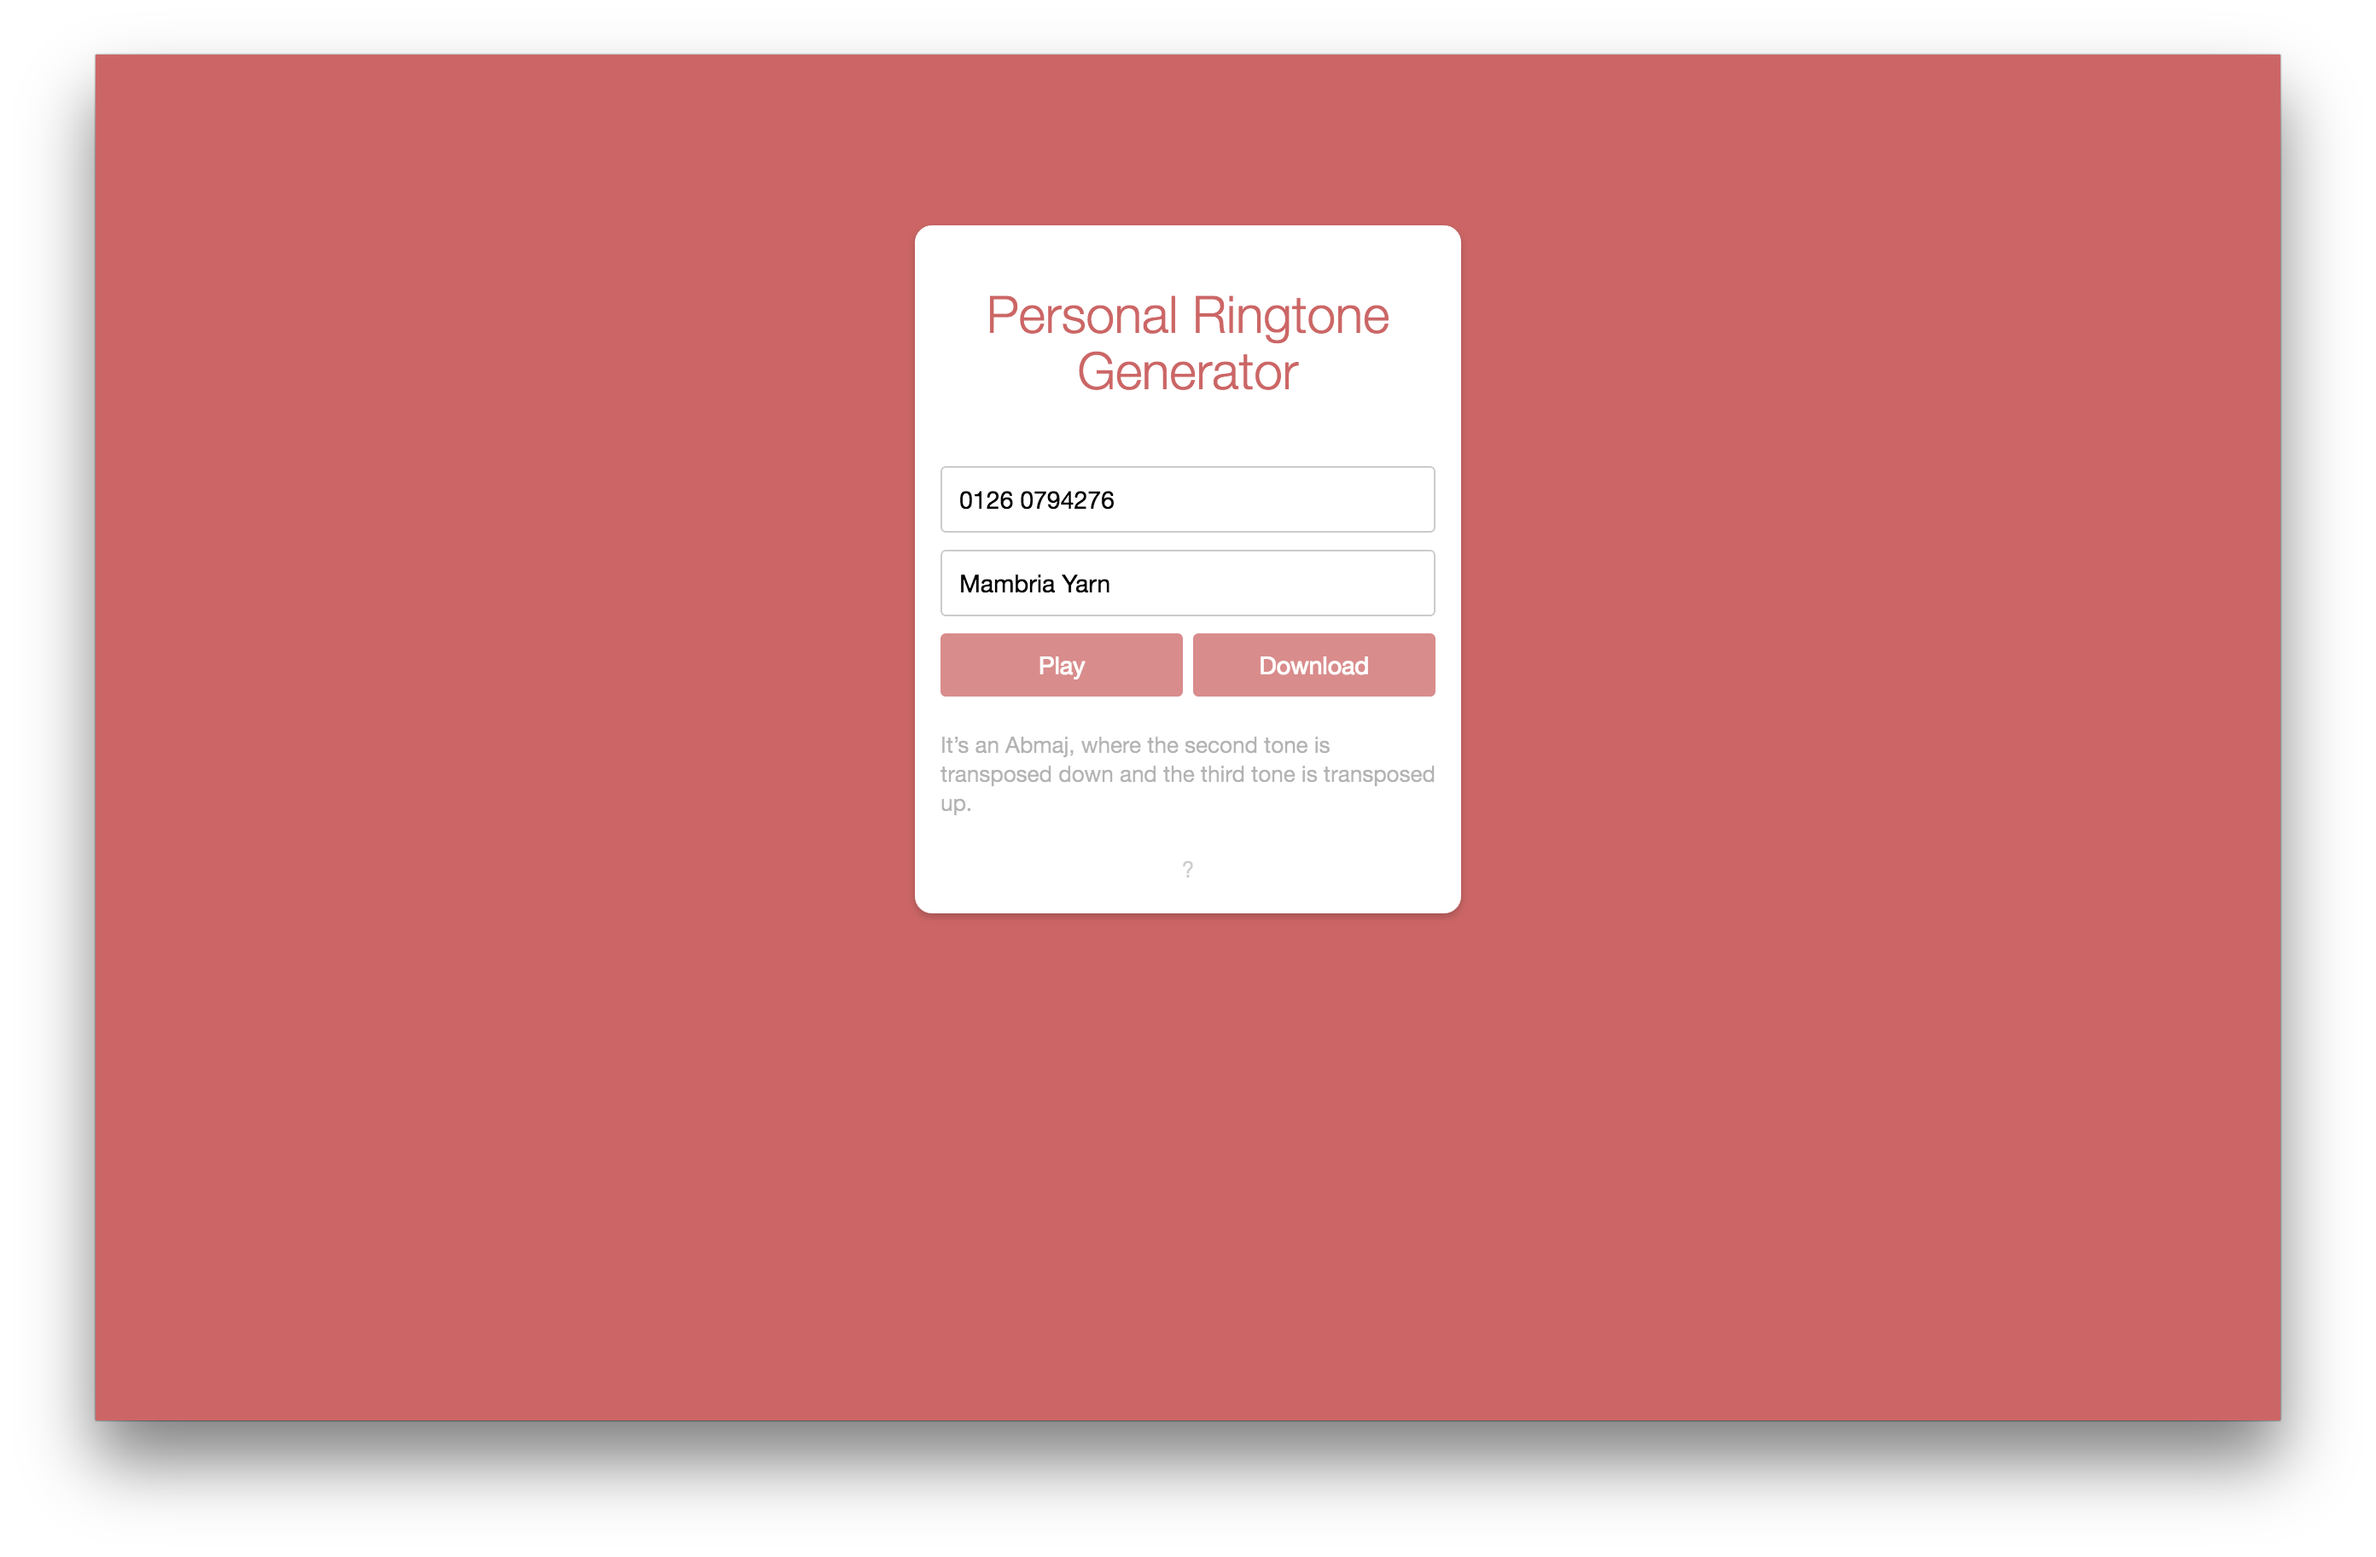
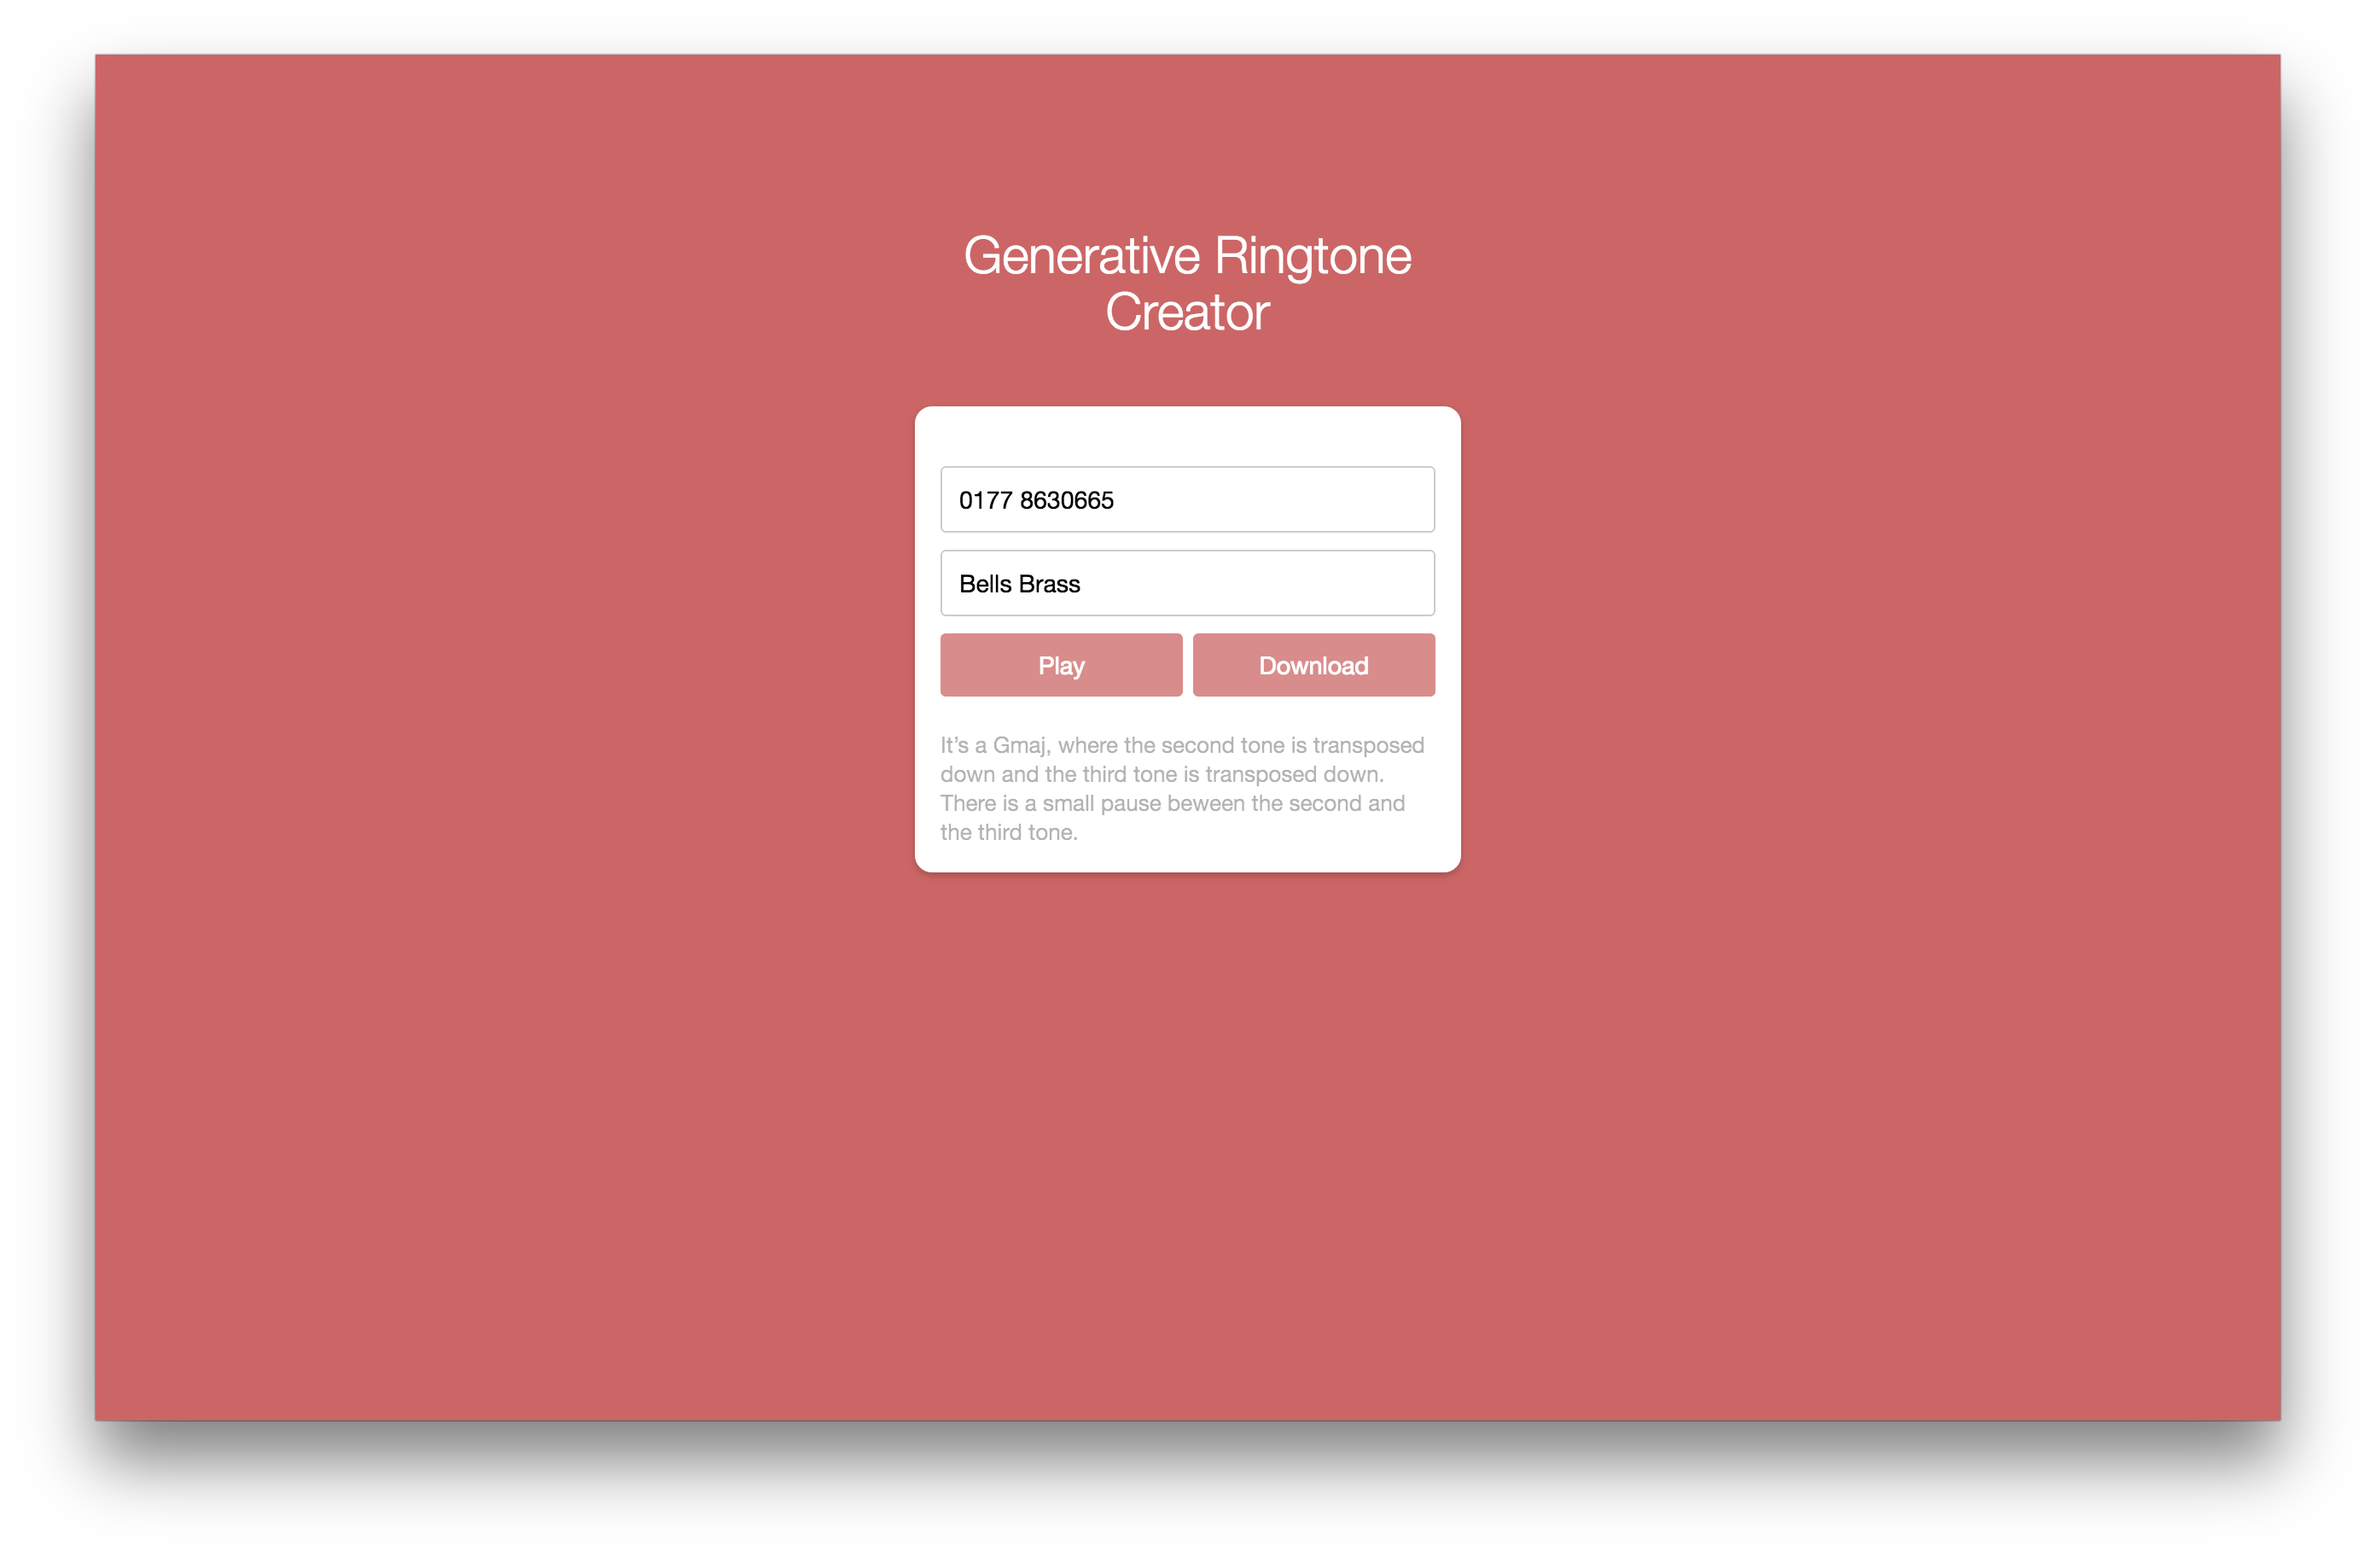
Renaming

Changed region(s): [[0.375, 0.125, 0.625, 0.2812], [0.375, 0.4688, 0.625, 0.5938], [0.4062, 0.3125, 0.4688, 0.4062]]

diff --git a/index.html b/index.html
@@ -4,7 +4,7 @@
 	<head>
 	
 		<!-------------------------<!--! META ------------------------------>
-		<title>Audio</title>
+		<title>Generative Ringtone Creator</title>
 		
 		<meta charset="utf-8"> 
 		<meta name="viewport" content="width=device-width, initial-scale=1, maximum-scale=1" />
@@ -27,7 +27,7 @@
 	</head>
 	
 	<body>
-			<h1>Generative Ringtone Generator</h1>
+			<h1>Generative Ringtone Creator</h1>
 			
 		<main>
 			<form>

diff --git a/scripts/script.js b/scripts/script.js
@@ -128,7 +128,7 @@ function generateSoundFromPhoneNumber(phoneNumber, soundFont)	{
 		text += ", where the third tone is transposed down";
 	}
 	
-	text += ".";
+	text += ". ";
 	
 	if (firstPause)	{
 		text += "There is a small pause beween the first and the second tone"

diff --git a/README.md b/README.md
@@ -1,4 +1,4 @@
-# Personal Ringtone Generator
+# Generative Ringtone Creator
 
 ![](screenshot.png)
 
